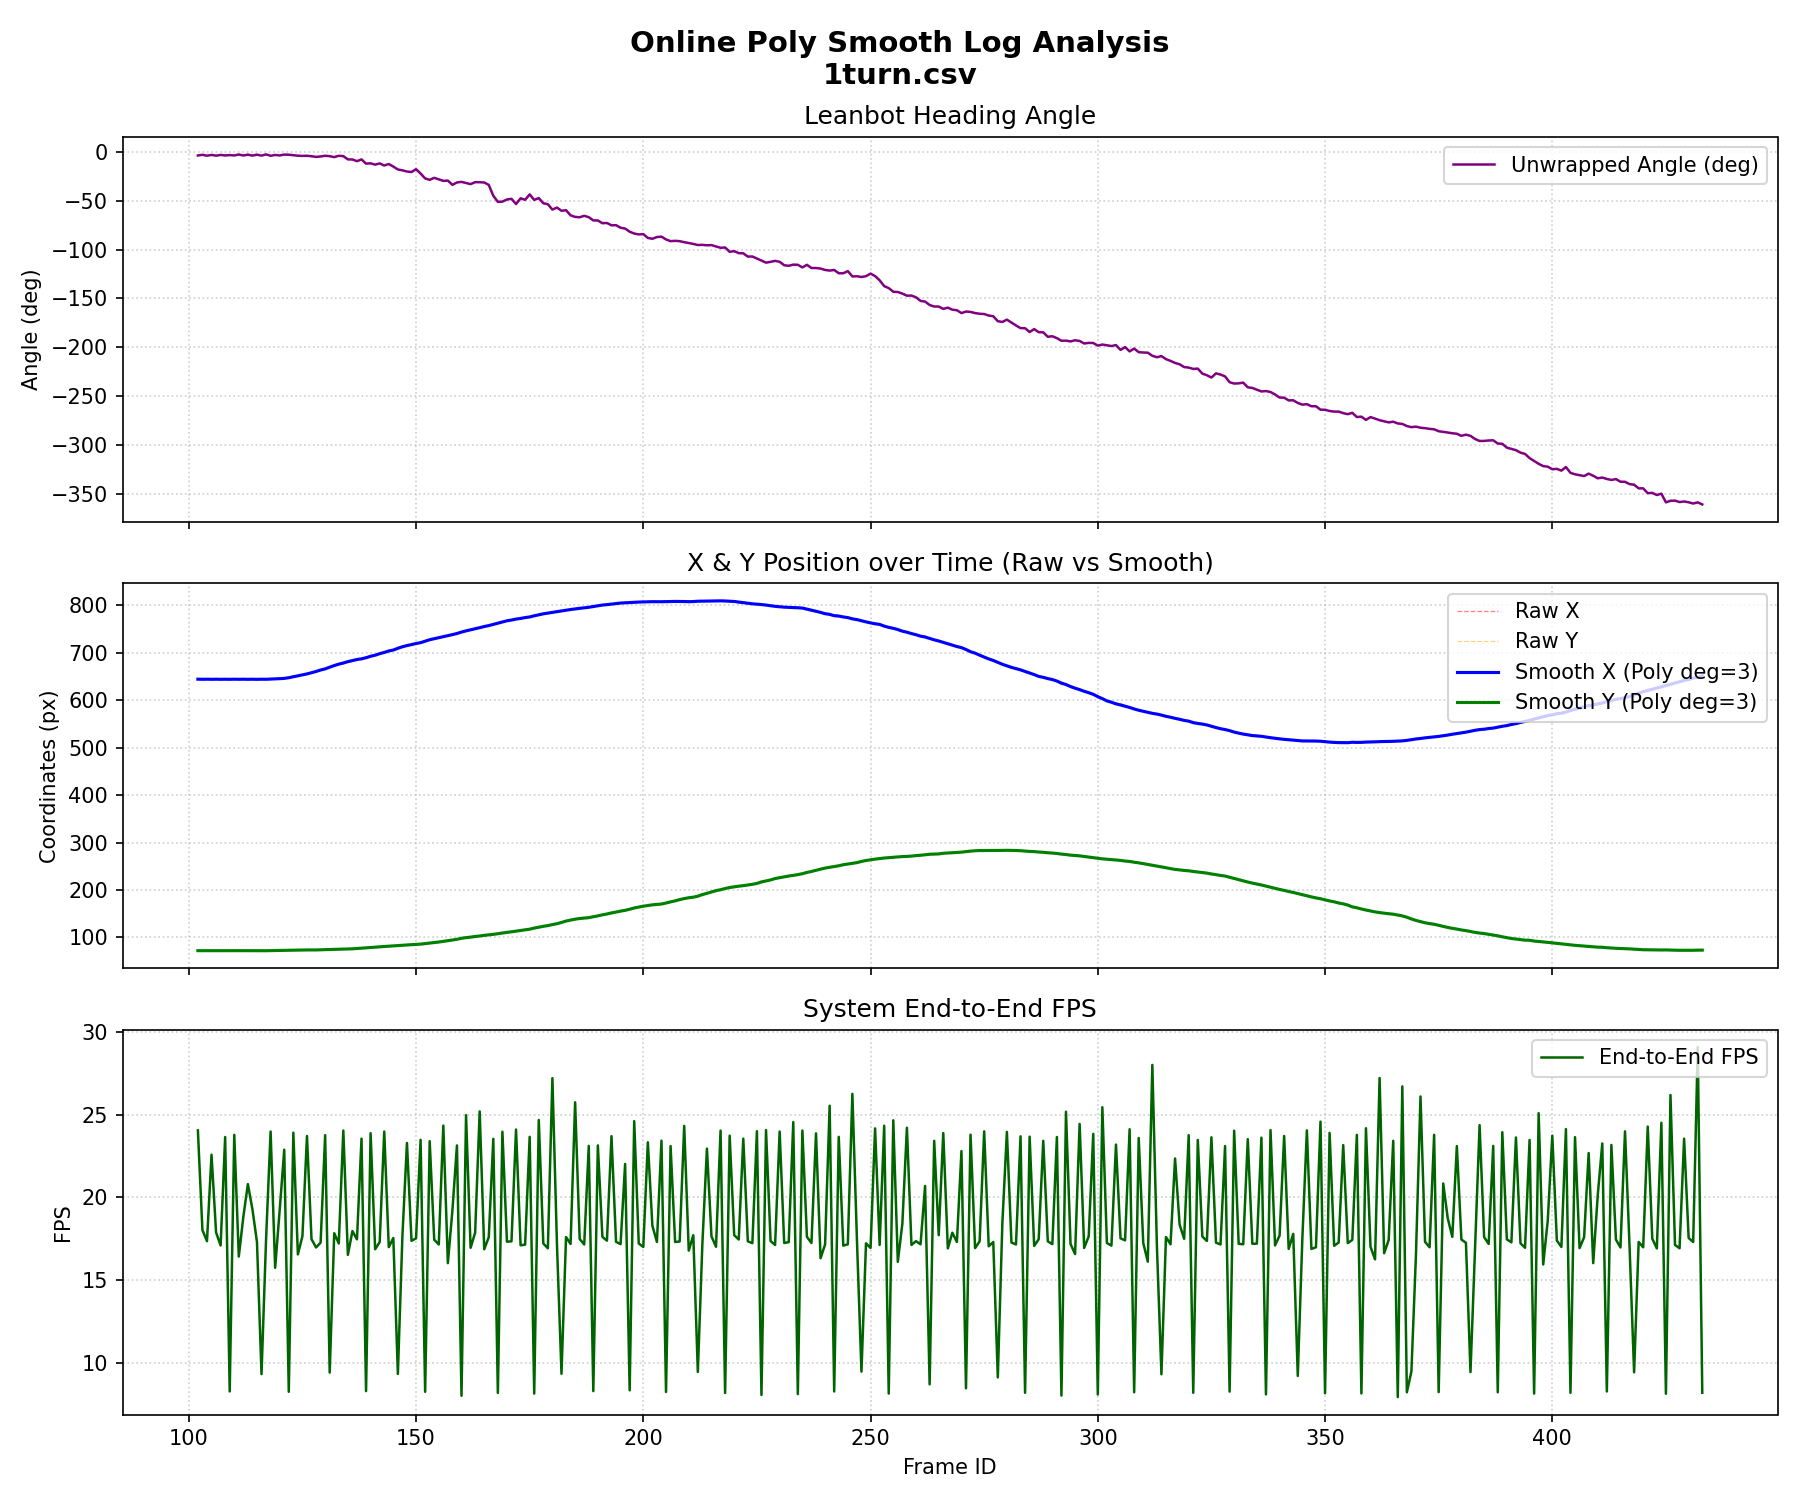
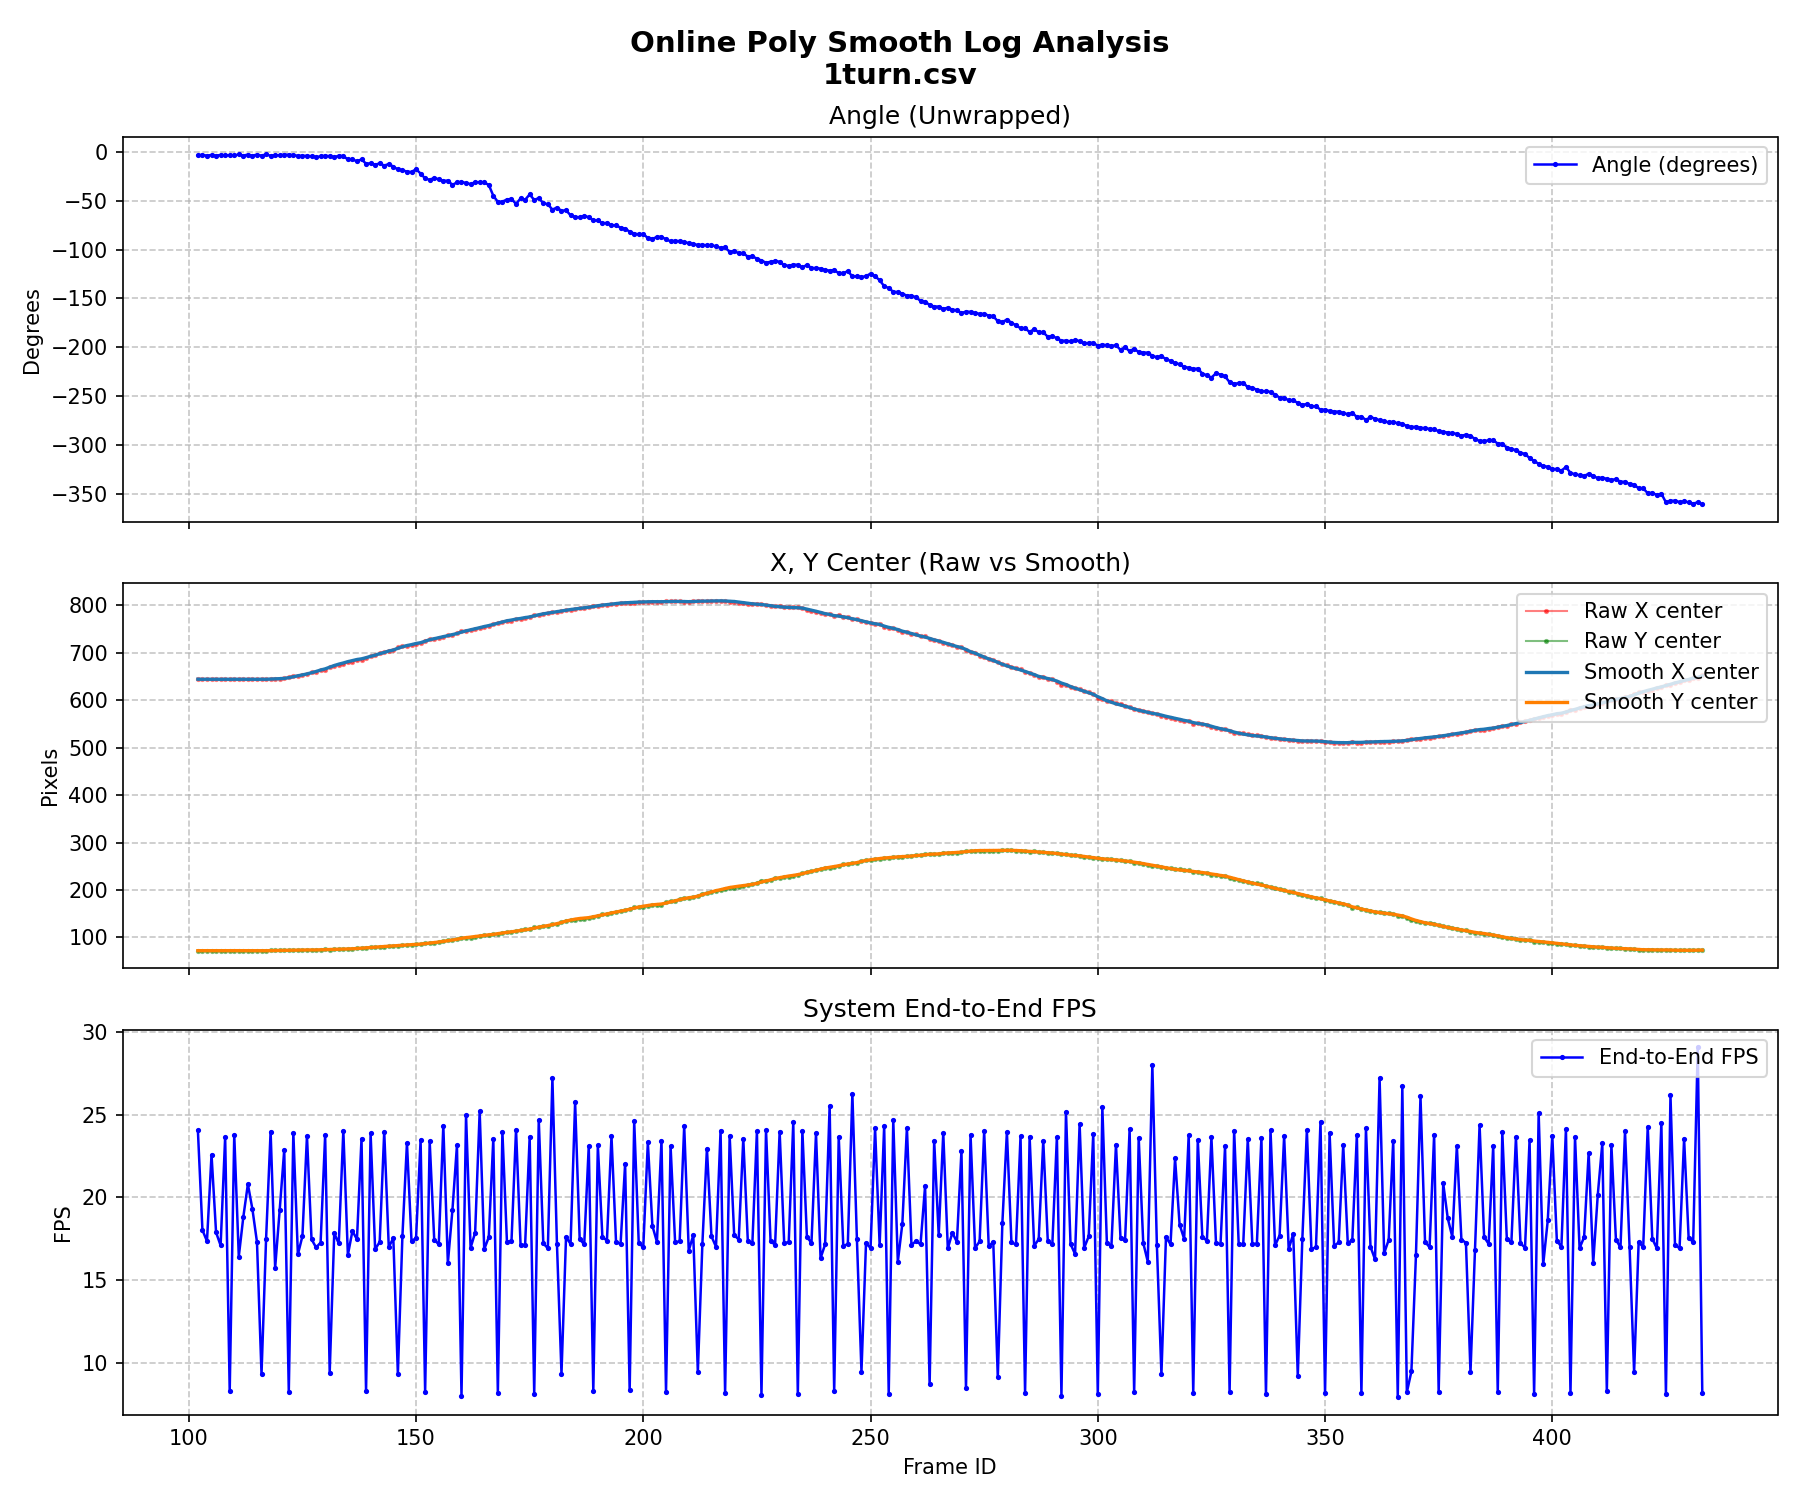
update

diff --git a/260804/tools/plot_online_poly_log.py b/260804/tools/plot_online_poly_log.py
@@ -127,36 +127,36 @@ def plot_online_poly_log(csv_file: str, n_sample_segments: int = 3, poly_degree:
     fig_time, axes = plt.subplots(3, 1, figsize=(12, 10), sharex=True, dpi=150)
     fig_time.suptitle(f'Online Poly Smooth Log Analysis\n{csv_path.name}', fontsize=14, fontweight='bold')
 
-    # Subplot 1: Angle Unwrapped (nếu có)
+    # Subplot 1: Angle Unwrapped (Màu xanh dương - Blue 'b.-' giống plot_log.py)
     ax_ang = axes[0]
     if 'angle' in df.columns or 'group1_angle' in df.columns:
         ang_col = 'group1_angle' if 'group1_angle' in df.columns else 'angle'
         unwrapped_angle = np.degrees(np.unwrap(np.radians(df[ang_col])))
-        ax_ang.plot(df['frame_id'], unwrapped_angle, color='purple', linewidth=1.2, label='Unwrapped Angle (deg)')
-        ax_ang.set_ylabel('Angle (deg)')
-        ax_ang.grid(True, linestyle=':', alpha=0.6)
+        ax_ang.plot(df['frame_id'], unwrapped_angle, 'b.-', linewidth=1.2, markersize=3, label='Angle (degrees)')
+        ax_ang.set_ylabel('Degrees')
+        ax_ang.grid(True, linestyle='--', alpha=0.7)
         ax_ang.legend(loc='upper right')
-        ax_ang.set_title("Leanbot Heading Angle")
+        ax_ang.set_title("Angle (Unwrapped)")
 
-    # Subplot 2: X, Y Center (Raw vs Smooth)
+    # Subplot 2: X, Y Center (4 màu hoàn toàn khác biệt: Raw X đỏ, Smooth X xanh dương, Raw Y xanh lá, Smooth Y cam)
     ax_pos = axes[1]
-    ax_pos.plot(df['frame_id'], df['x_center'], color='red', linewidth=0.6, linestyle='--', alpha=0.5, label='Raw X')
-    ax_pos.plot(df['frame_id'], df['y_center'], color='orange', linewidth=0.6, linestyle='--', alpha=0.5, label='Raw Y')
+    ax_pos.plot(df['frame_id'], df['x_center'], 'r.-', linewidth=1.0, markersize=3, alpha=0.5, label='Raw X center')
+    ax_pos.plot(df['frame_id'], df['y_center'], 'g.-', linewidth=1.0, markersize=3, alpha=0.5, label='Raw Y center')
     if has_smooth:
-        ax_pos.plot(df['frame_id'], df['smooth_x'], color='blue', linewidth=1.5, label='Smooth X (Poly deg=3)')
-        ax_pos.plot(df['frame_id'], df['smooth_y'], color='green', linewidth=1.5, label='Smooth Y (Poly deg=3)')
-    ax_pos.set_ylabel('Coordinates (px)')
-    ax_pos.grid(True, linestyle=':', alpha=0.6)
+        ax_pos.plot(df['frame_id'], df['smooth_x'], color='#1f77b4', linewidth=1.6, label='Smooth X center')
+        ax_pos.plot(df['frame_id'], df['smooth_y'], color='#ff7f00', linewidth=1.6, label='Smooth Y center')
+    ax_pos.set_ylabel('Pixels')
+    ax_pos.grid(True, linestyle='--', alpha=0.7)
     ax_pos.legend(loc='upper right')
-    ax_pos.set_title("X & Y Position over Time (Raw vs Smooth)")
+    ax_pos.set_title("X, Y Center (Raw vs Smooth)")
 
-    # Subplot 3: End-to-End FPS & CPU Load
+    # Subplot 3: End-to-End FPS (Màu xanh dương giống plot_log.py)
     ax_fps = axes[2]
     if 'fps' in df.columns:
-        ax_fps.plot(df['frame_id'], df['fps'], color='darkgreen', linewidth=1.2, label='End-to-End FPS')
+        ax_fps.plot(df['frame_id'], df['fps'], 'b.-', linewidth=1.2, markersize=3, label='End-to-End FPS')
         ax_fps.set_ylabel('FPS')
         ax_fps.set_xlabel('Frame ID')
-        ax_fps.grid(True, linestyle=':', alpha=0.6)
+        ax_fps.grid(True, linestyle='--', alpha=0.7)
         ax_fps.legend(loc='upper right')
         ax_fps.set_title("System End-to-End FPS")
 
